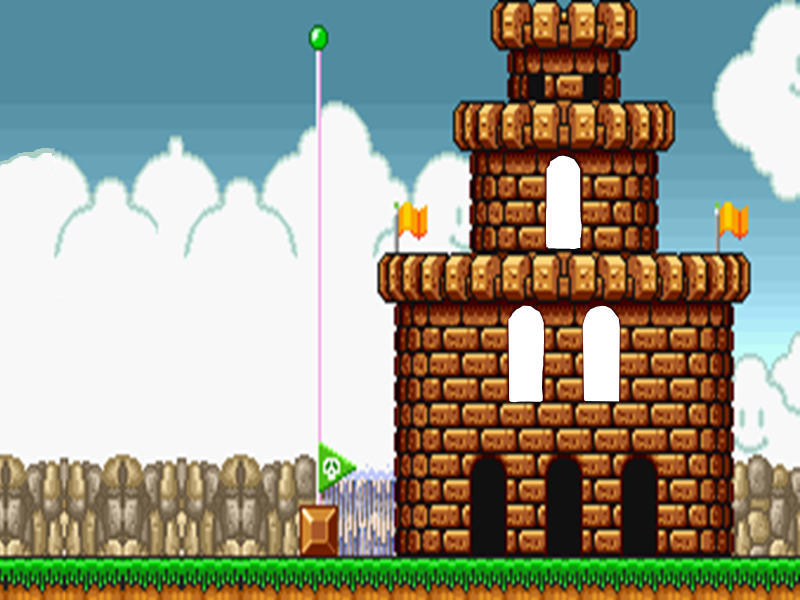
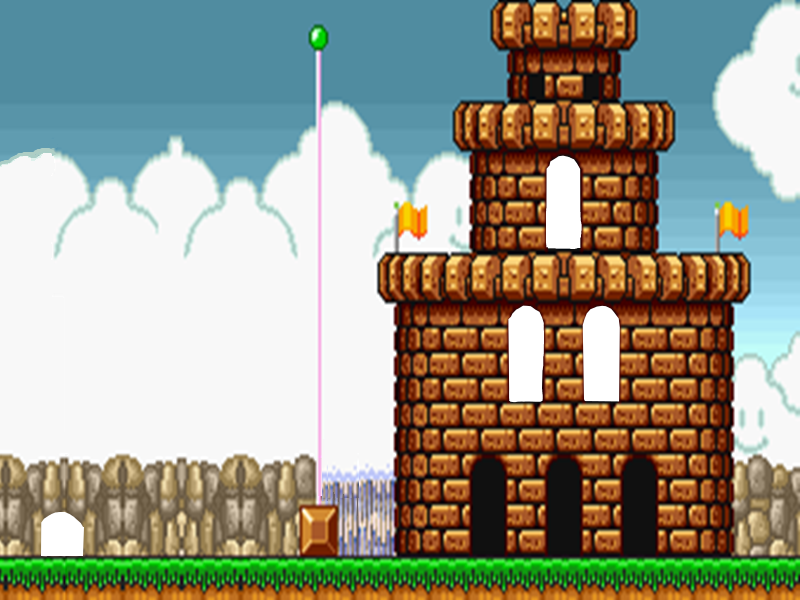
lowering flag

Changed region(s): [[0.375, 0.72, 0.4688, 0.84], [0.0312, 0.84, 0.125, 0.93]]

diff --git a/other/mariozuma-lode/files/levels.js b/other/mariozuma-lode/files/levels.js
@@ -9,6 +9,7 @@ class SceneIntro extends MainScene{
         this.nextScene['right'] = 'Scene1';
         this.exits['right']['x'] = '8';
         this.exits['right']['y'] = '9';
+        this.initialFlagY = 90;
     }
 
     create(){
@@ -22,7 +23,23 @@ class SceneIntro extends MainScene{
         castle.setDepth(0);
         this.getSprites('skull').forEach(skull => skull.setDepth(-1));
         const sign = this.add.sprite(3*Globals.TILE_WIDTH,  8.8*Globals.TILE_WIDTH, 'sign');
-        //sign.setScale(0.5);
+
+        const flag = this.add.sprite(320 + 18, this.initialFlagY, 'flag');
+        flag.speedX = 0;
+        flag.speedY = 0;
+        this.spriteGroup.add(flag);
+    }
+
+    movePlayer(time){
+        super.movePlayer(time);
+        const flag = this.getSprites('flag')[0];
+
+        if (this.player.x > flag.x && flag.y == this.initialFlagY){
+            this.time.delayedCall(10200, () => {
+                flag.speedY = 0;
+            }, [], this);
+            flag.speedY=0.6;
+        }
     }
 
     //@Overrride
@@ -38,7 +55,7 @@ class SceneIntro extends MainScene{
             if (coords[0] == exitX && coords[1] == exitY){
                 this.scene.start(this.nextScene[d]);
                 if (d === 'right'){
-                    this.setGlobalInitialPos(2, 2);
+                    this.setGlobalInitialPos(1, 2);
                 }
             }
         });
@@ -435,7 +452,6 @@ class Scene10 extends MainScene{
             , {'row': 4, 'side': 'left'}, {'row': 6, 'side': 'right'}
             ];
 
-        this.aztecEagleRows = [0, 6.5];
         this.snakeRows= [ {'row': 4, 'side': 'right'}
         ];
         this.conveyors= [ {'coveredCells' : [1,9], 'rowX' : 5, 'rowY' : 5}];

diff --git a/other/mariozuma-lode/files/mariozuma-lode.js b/other/mariozuma-lode/files/mariozuma-lode.js
@@ -62,6 +62,7 @@ class MainScene extends ExtendedScene {
 
     preload(){
         this.load.image('montezuma-castle', 'files/background/montezuma-castle.png');
+        this.load.image('flag', 'files/background/flag.png');
         this.load.image('sign', 'files/background/sign.png');
 
         this.load.image('player',  'files/character/stand.png');
@@ -668,7 +669,7 @@ class MainScene extends ExtendedScene {
     //@Override
     moveEnemies(time){
         this.spriteGroup.children.iterate((child)=> {
-            if (this._isEnemy(child)) {
+            if (this._isEnemy(child) || child.texture.key ==='flag') {
                 child.x -= child.speedX;
                 child.y += child.speedY;
                 this.conditionallyStopEnemy(child);

diff --git a/other/mariozuma-lode/index.html b/other/mariozuma-lode/index.html
@@ -6,7 +6,7 @@
 <body>
 <div id="header" class="big header">MARIOZUMA'S LODE</div>
 <div id="infoFrame" class="panel">
-    <div id="room-number">Scene1</div>
+    <div id="room-number">Room Intro</div>
     <hr>
     <div id="connection-info" style="font-size: 1em; color: rgba(222, 116, 2, 1);">
         Lives: Infinity<br/>
